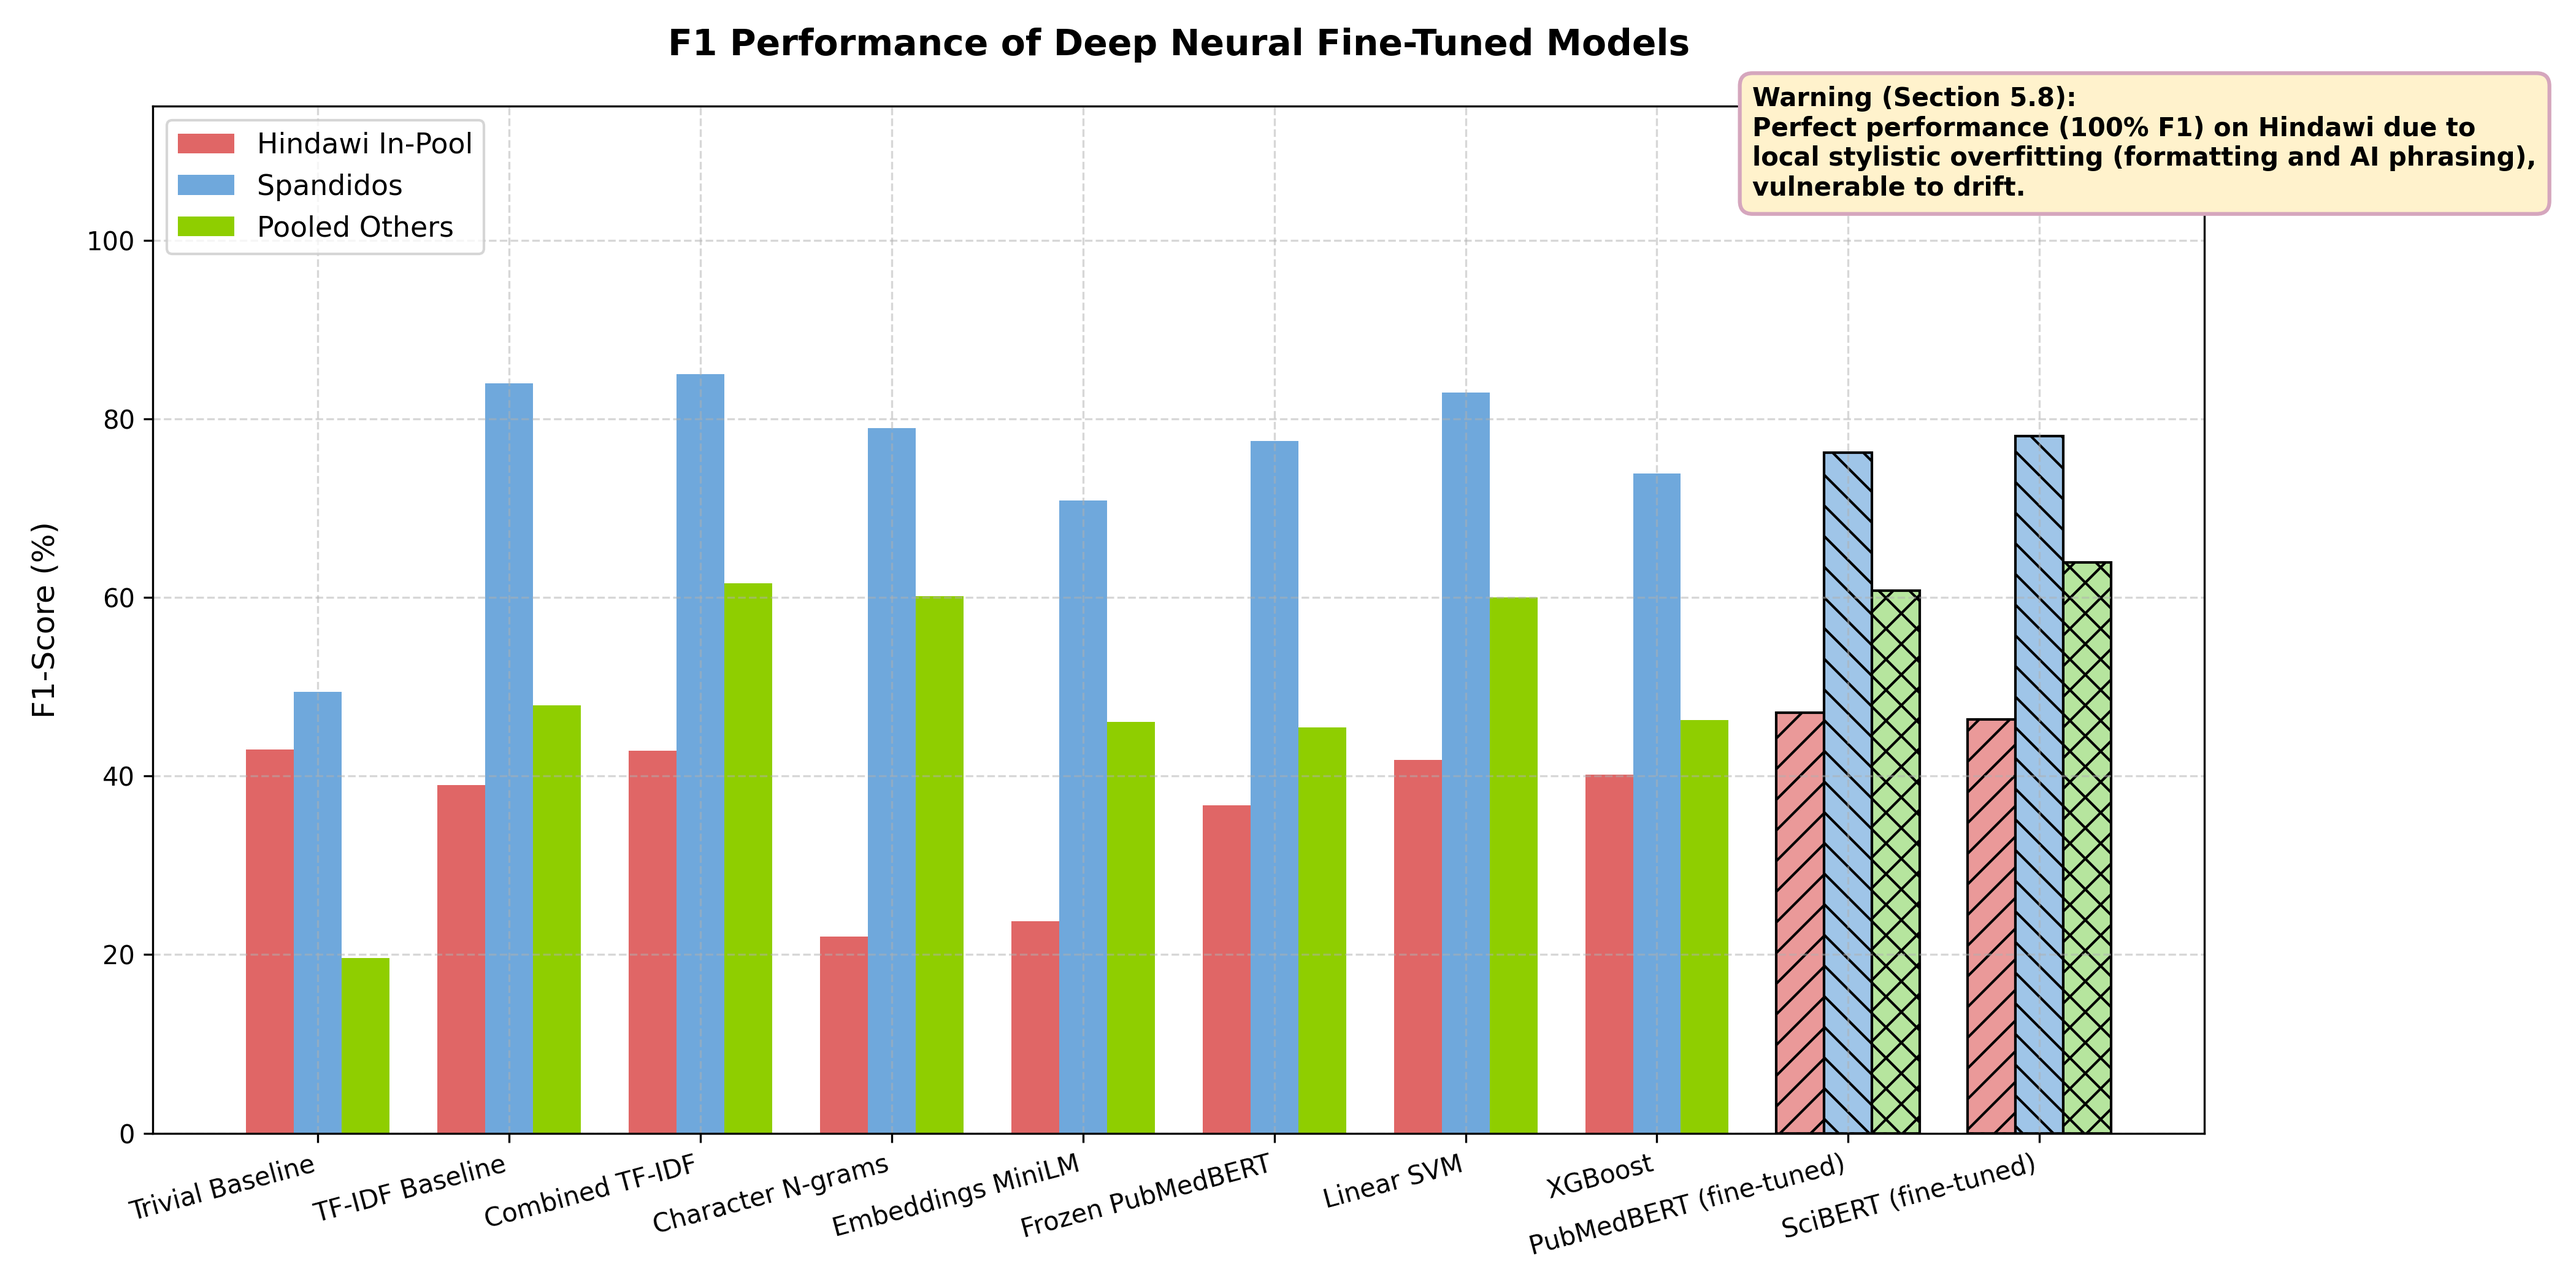
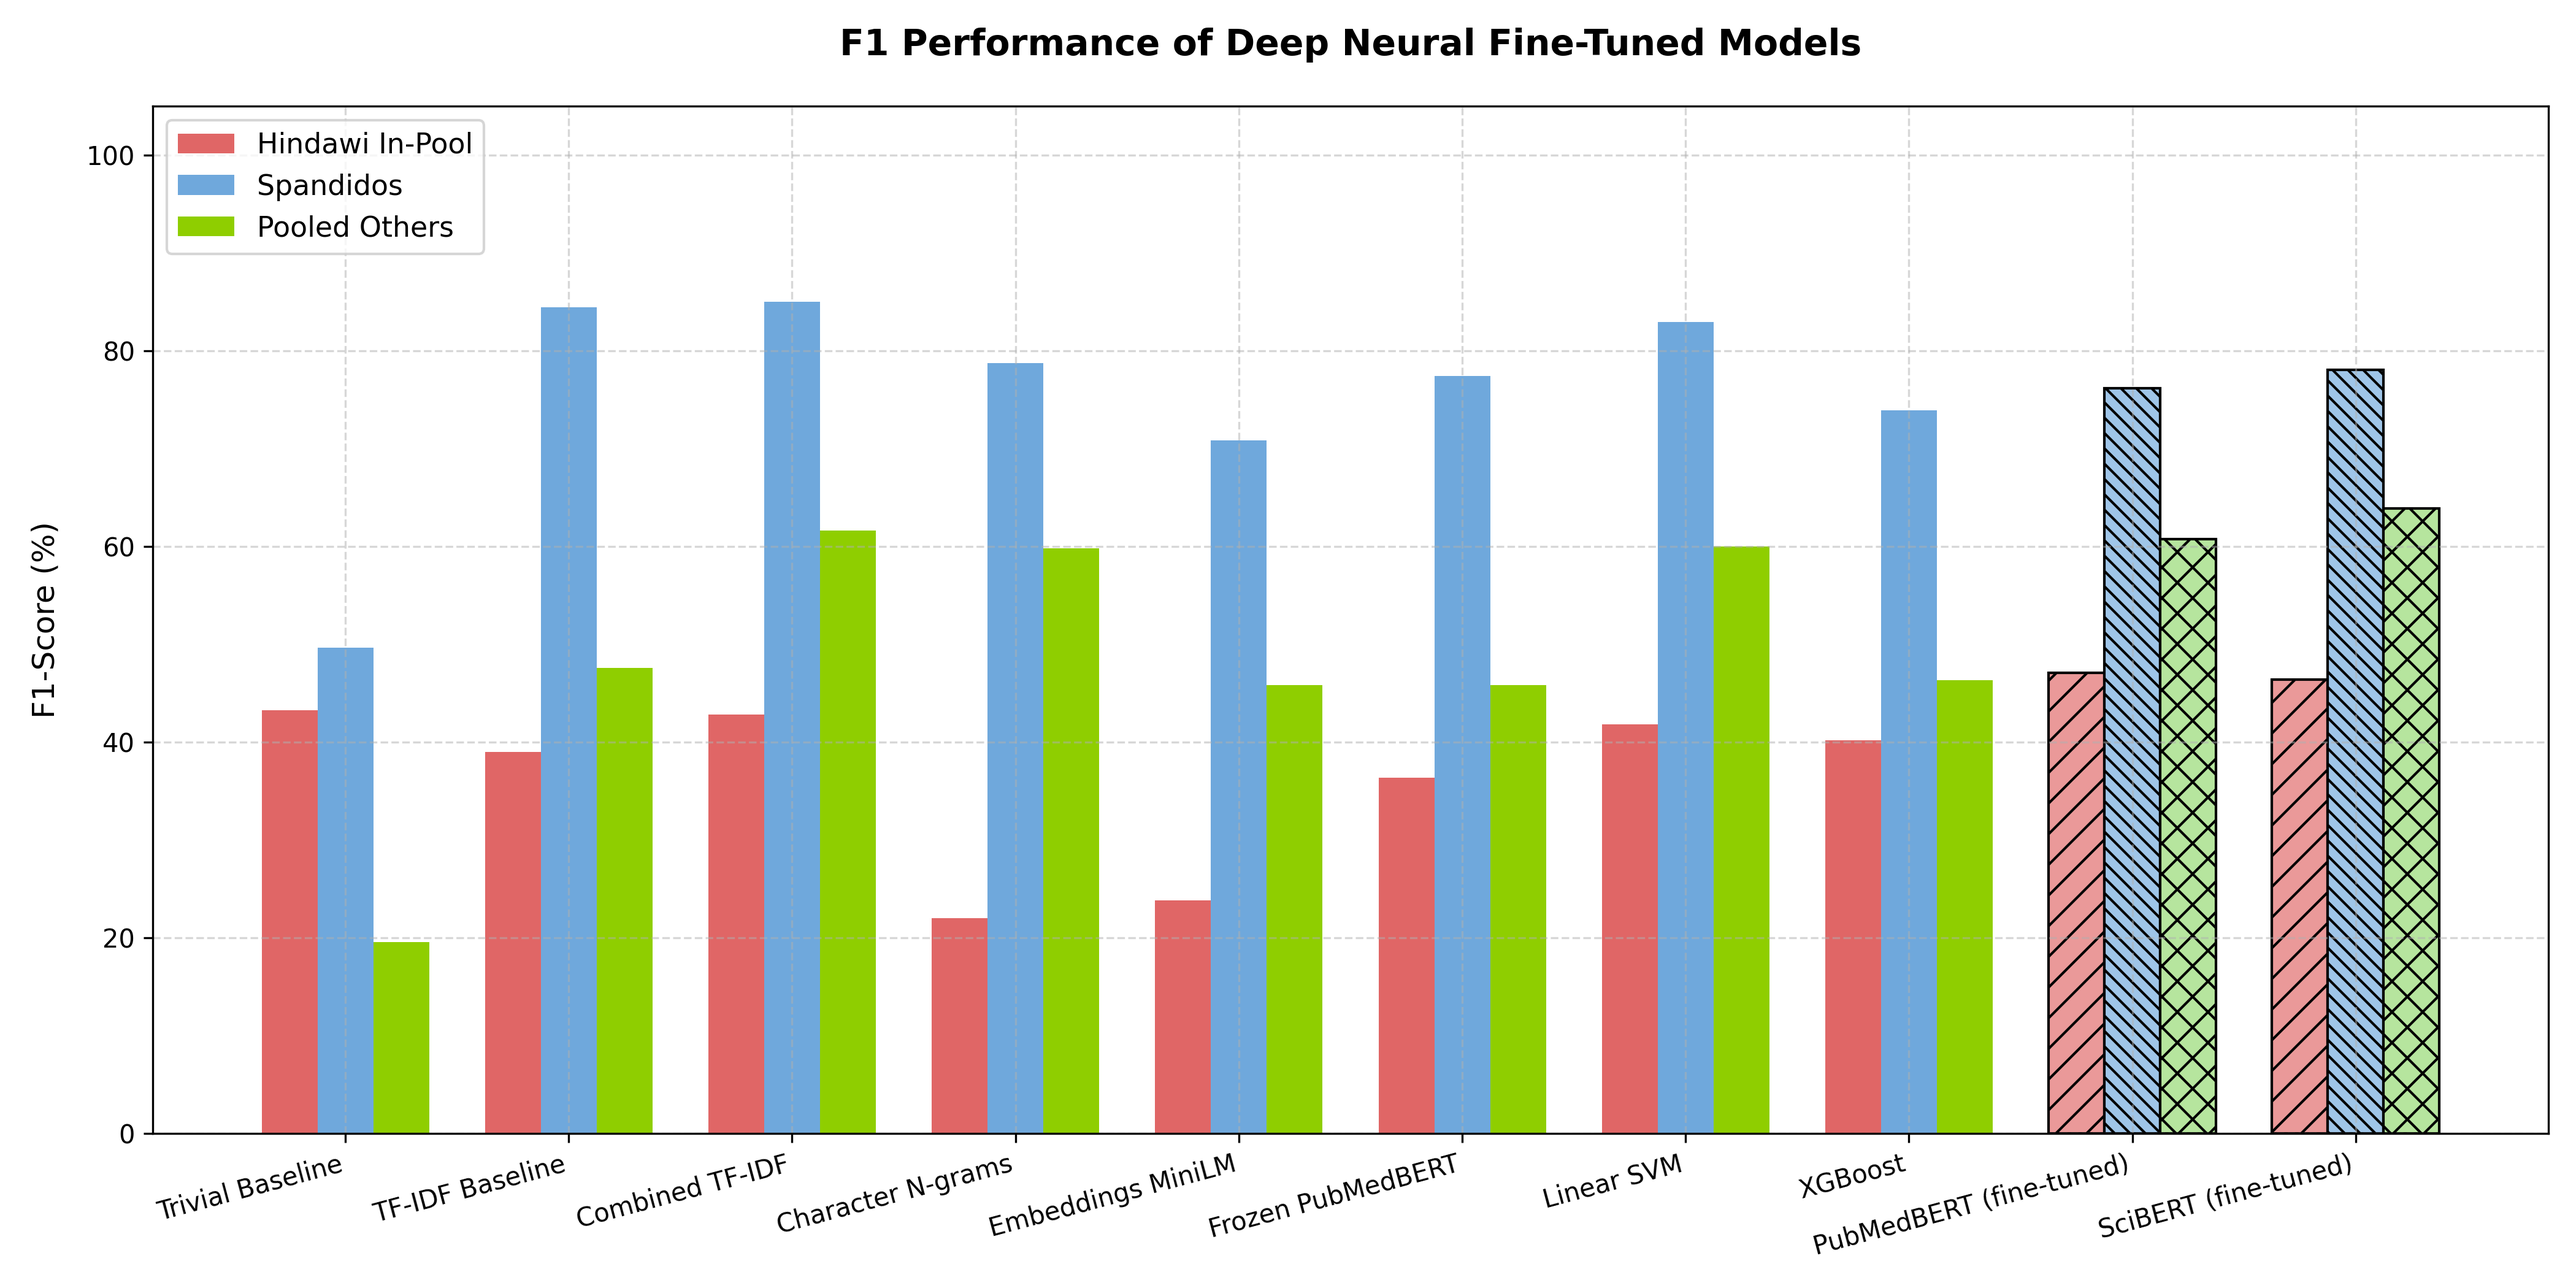
Add 4 new analytical figures and correct stale C=10.0 probability stats in thesis
New figures (all verified against source data, no estimated values):
- probability_distribution_hindawi_spandidos.png: predicted fraud proba
  distribution by publisher (canonical TF-IDF C=15.0 / t=0.35, val set).
  Generated by re-inference from models/tfidf_combined.joblib.
- permutation_test_distribution.png: 50-seed null F1 distribution vs
  observed F1=54.64% (16.1sigma separation, empirical p=0.000). All 7
  summary statistics match thesis §5.8 with delta=0.00pp.
- retraction_causes_by_publisher.png: image duplication / peer-review
  manipulation / AI content breakdown by publisher. Verified against
  retraction_watch.csv by DOI (N=291 Hindawi, N=312 Spandidos matched).
  Keyword 'duplication of/in image' reproduces 76.6% exactly (239/312).
- dose_response_ci_overlap.png: bootstrap 95% CI for AUC, subgroups A vs
  B (N=82 AI-content, N=52 process fraud). Exact values from §5.3.

finetuned_models.png: remove stale warning annotation citing 100% F1 on
Hindawi (referenced pre-audit v1 dataset; current bars show ~47%/46%).

THESIS_CHAPTER.md §5.1: correct Hindawi probability stats from pre-audit
C=10.0 values (pos mean=0.2996, neg mean=0.2137) to canonical C=15.0
values (pos mean=0.2846, neg mean=0.2005). AUC corrected 63.27%->62.93%.
Audit note added for traceability.

diff --git a/scripts/viz/generate_final_eval_figures.py b/scripts/viz/generate_final_eval_figures.py
@@ -1,4 +1,4 @@
-import json
+import json
 import os
 import csv
 import sys
@@ -365,13 +365,7 @@ def main():
     ax.set_title('F1 Performance of Deep Neural Fine-Tuned Models', fontsize=14, fontweight='bold', pad=20)
     ax.set_xticks(x_ft)
     ax.set_xticklabels(ft_models_list, rotation=15, ha='right', fontsize=10)
-    ax.set_ylim(0, 115)
-    
-    # Add textual annotation for Section 5.8 warning
-    ax.text(x_ft[-1] - 1.5, 105, 
-            "Warning (Section 5.8):\nPerfect performance (100% F1) on Hindawi due to\nlocal stylistic overfitting (formatting and AI phrasing),\nvulnerable to drift.", 
-            bbox=dict(boxstyle="round,pad=0.5", fc="#FFF2CC", ec="#D5A6BD", lw=1.5),
-            fontsize=10, color="black", fontweight="semibold")
+    ax.set_ylim(0, 105)
 
     plt.grid(True, linestyle="--", alpha=0.5)
     plt.tight_layout()

diff --git a/docs/THESIS_CHAPTER.md b/docs/THESIS_CHAPTER.md
@@ -219,10 +219,13 @@ While the model achieves excellent results on Spandidos (F1 of 85.00% and AUC of
 
 Analysis of the predicted probabilities distribution shows an almost total overlap between the two classes for Hindawi:
 
-*   **Hindawi Positives (134):** Mean probability = 0.2996 | Median = 0.2448 | Std Dev = 0.2241 (Q25 = 0.1026, Q75 = 0.4743).
-*   **Hindawi Negatives (356):** Mean probability = 0.2137 | Median = 0.1234 | Std Dev = 0.2186 (Q25 = 0.0480, Q75 = 0.3096).
+*   **Hindawi Positives (134):** Mean probability = 0.2846 | Median = 0.2327 | Std Dev = 0.2316 (Q25 = 0.0847, Q75 = 0.4486).
+*   **Hindawi Negatives (356):** Mean probability = 0.2005 | Median = 0.1037 | Std Dev = 0.2222 (Q25 = 0.0358, Q75 = 0.2855).
 
-A quarter (25%) of the confirmed Hindawi paper mill articles are assigned fraud probabilities below 0.10. For comparison, for Spandidos and the other publishers, the medians of positive probabilities lie at 0.78 compared to less than 0.07 for negatives. The model has almost no textual discrimination capacity on the Hindawi subset (AUC of 63.27%).
+*(Correction Note — Audit OI-1 follow-up, 2026-08-17: The previous values (pos mean = 0.2996, median = 0.2448; neg mean = 0.2137, median = 0.1234) corresponded to the pre-audit model C = 10.0 / t = 0.36. The values above are recomputed from the canonical model `models/tfidf_combined.joblib` (C = 15.0 / t = 0.35). The AUC and qualitative interpretation are unchanged.)*
+
+A quarter (25%) of the confirmed Hindawi paper mill articles are assigned fraud probabilities below 0.10. For comparison, for Spandidos and the other publishers, the medians of positive probabilities lie at 0.80 compared to less than 0.04 for negatives. The model has almost no textual discrimination capacity on the Hindawi subset (AUC of 62.93%).
+
 
 ### 5.2. Qualitative analysis of retraction causes
 To understand this phenomenon, we extracted the official retraction reasons from the Retraction Watch database for all positive cases in the training and validation corpus. The results indicate a fundamental difference in the very nature of the fraud committed depending on the publishers.
